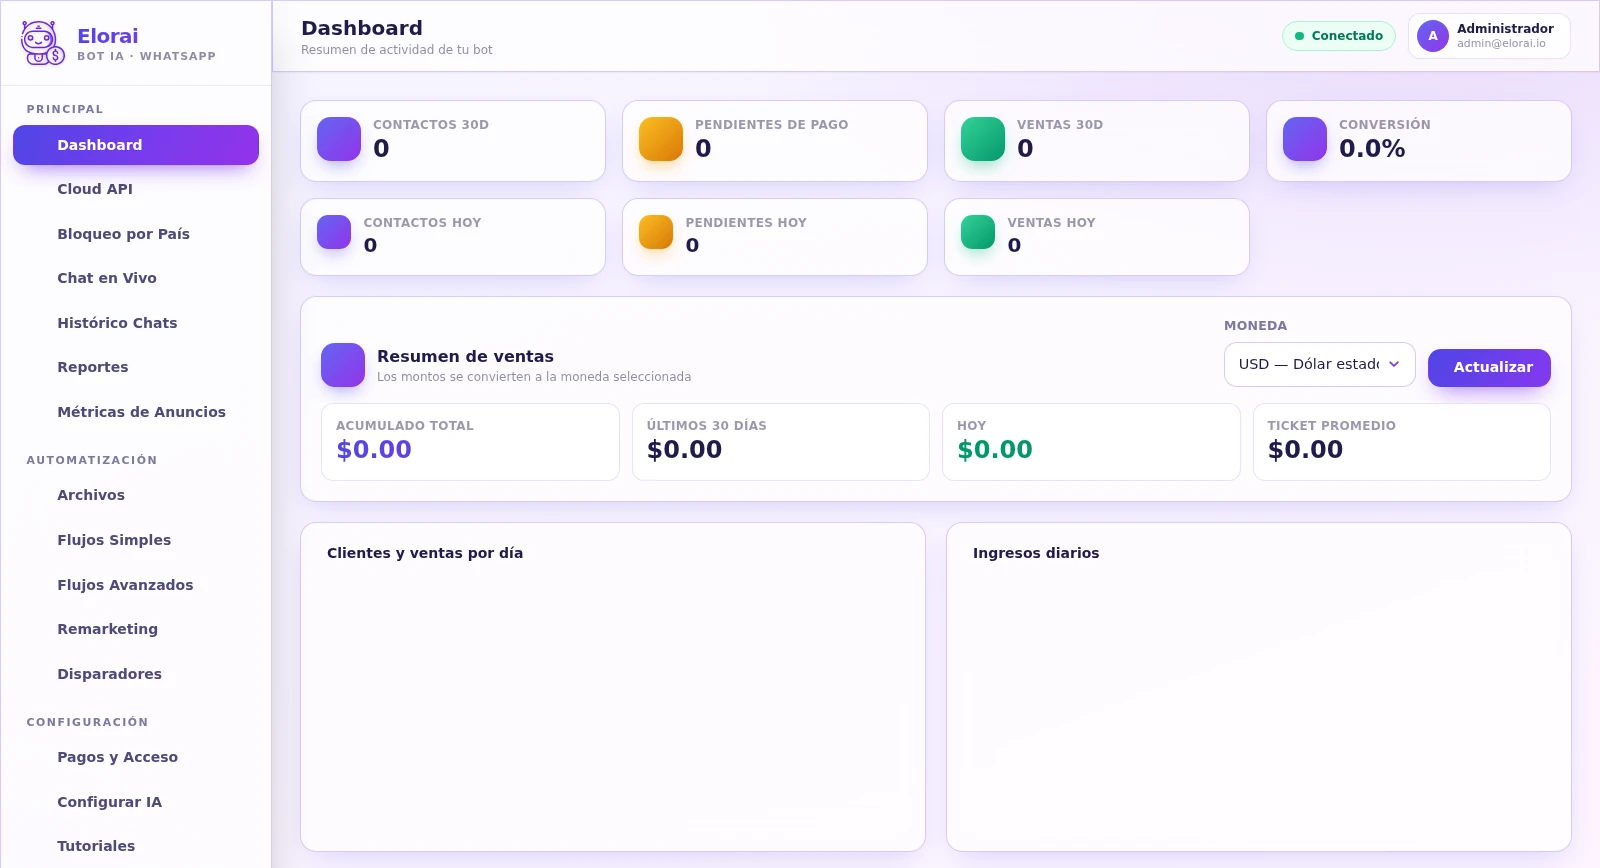
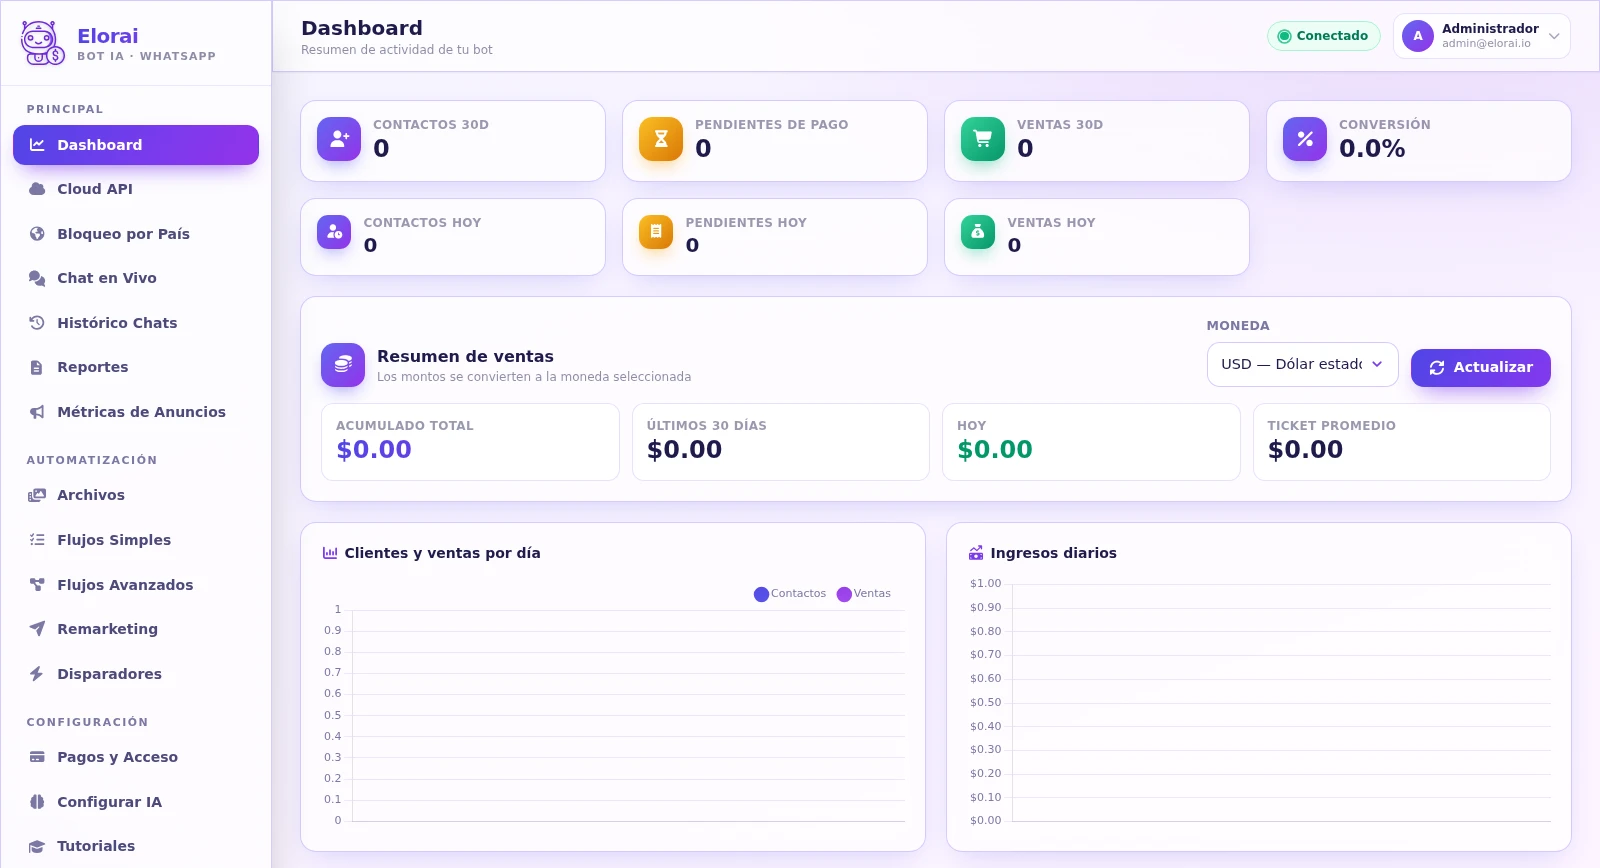
fix(landing): mockup del hero con íconos y gráficas visibles, canal de YouTube
La primera captura del dashboard se generó sin Font Awesome ni Chart.js
(fallaron al cargar), así que las tarjetas y gráficas se veían vacías.
Se regenera con ambos recursos cargados correctamente.

Enlaza los tres "Tutoriales" (nav desktop, nav móvil, footer) al canal
de YouTube: https://www.youtube.com/@EloraiBot

diff --git a/index.html b/index.html
@@ -37,7 +37,6 @@
   ║                                                                          ║
   ║  [WHATSAPP_NUMBER]     · número de contacto en formato internacional     ║
   ║                          sin signos (ej. 5215512345678)                  ║
-  ║  [YOUTUBE_CHANNEL_URL] · canal de tutoriales                            ║
   ╚══════════════════════════════════════════════════════════════════════════╝
 -->
 
@@ -57,7 +56,7 @@
         <a href="#caracteristicas" class="nav-link-top">Características</a>
         <a href="#como-funciona" class="nav-link-top">Cómo Funciona</a>
         <a href="#precios" class="nav-link-top">Precios</a>
-        <a href="[YOUTUBE_CHANNEL_URL]" target="_blank" rel="noopener" class="nav-link-top">
+        <a href="https://www.youtube.com/@EloraiBot" target="_blank" rel="noopener" class="nav-link-top">
           <i class="fa-brands fa-youtube text-red-500 mr-1"></i>Tutoriales
         </a>
         <button type="button" data-open-login class="btn btn-gradient">
@@ -77,7 +76,7 @@
         <a href="#caracteristicas" class="nav-link-mobile"><i class="fa-solid fa-star"></i>Características</a>
         <a href="#como-funciona" class="nav-link-mobile"><i class="fa-solid fa-list-ol"></i>Cómo Funciona</a>
         <a href="#precios" class="nav-link-mobile"><i class="fa-solid fa-tag"></i>Precios</a>
-        <a href="[YOUTUBE_CHANNEL_URL]" target="_blank" rel="noopener" class="nav-link-mobile"><i class="fa-brands fa-youtube !text-red-500"></i>Tutoriales</a>
+        <a href="https://www.youtube.com/@EloraiBot" target="_blank" rel="noopener" class="nav-link-mobile"><i class="fa-brands fa-youtube !text-red-500"></i>Tutoriales</a>
         <button type="button" data-open-login class="btn btn-gradient w-full mt-2">
           <i class="fa-solid fa-right-to-bracket"></i> Ingresar
         </button>
@@ -584,7 +583,7 @@
         <ul class="mt-4 space-y-2.5">
           <li><a href="mailto:eloraibot@gmail.com" class="footer-link"><i class="fa-regular fa-envelope mr-1.5"></i>eloraibot@gmail.com</a></li>
           <li><a href="https://wa.me/[WHATSAPP_NUMBER]" target="_blank" rel="noopener" class="footer-link"><i class="fa-brands fa-whatsapp mr-1.5"></i>WhatsApp</a></li>
-          <li><a href="[YOUTUBE_CHANNEL_URL]" target="_blank" rel="noopener" class="footer-link"><i class="fa-brands fa-youtube mr-1.5"></i>Tutoriales</a></li>
+          <li><a href="https://www.youtube.com/@EloraiBot" target="_blank" rel="noopener" class="footer-link"><i class="fa-brands fa-youtube mr-1.5"></i>Tutoriales</a></li>
           <li><a href="privacidad.html" class="footer-link">Política de privacidad</a></li>
           <li><a href="terminos.html" class="footer-link">Términos y condiciones</a></li>
         </ul>
